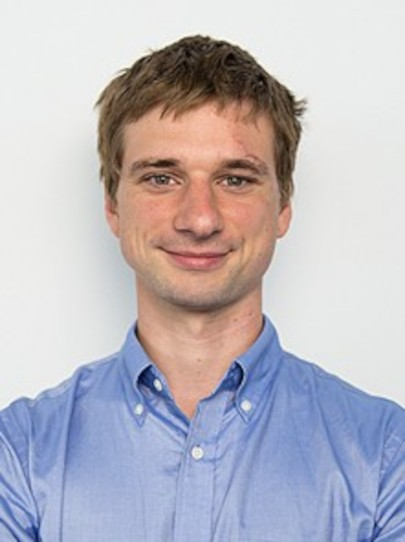
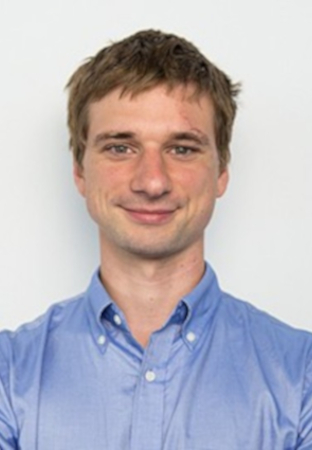
Create flipping coin
* Rework Flipping me to be better reusable
* Resize images
* Remove personal texts
* Delete normalize for better approach with tailwind

diff --git a/pages/index.tsx b/pages/index.tsx
@@ -1,7 +1,7 @@
 import * as React from "react";
 import { NextPage } from "next";
 import Layout from "../components/Layout";
-import FlippingMe from "../components/FlippingMe";
+import FlippingCoin, { Side } from "../components/FlippingCoin/FlippingCoin";
 
 const Home: NextPage = () => (
   <Layout>
@@ -13,8 +13,7 @@ const Home: NextPage = () => (
           className="w-full lg:w-3/5 rounded-lg lg:rounded-l-lg lg:rounded-r-none shadow-2xl bg-white opacity-75 mx-6 lg:mx-0"
         >
           <div className="p-4 md:p-12 text-center lg:text-left">
-            {/* Image for mobile view */}
-            <FlippingMe />
+            <MobileImage />
 
             <h1 className="text-3xl font-bold pt-8 lg:pt-0">Thomas Eberl</h1>
             <div className="mx-auto lg:mx-0 w-4/5 pt-3 border-b-2 border-blue-500 opacity-25"></div>
@@ -39,16 +38,23 @@ const Home: NextPage = () => (
               Munich - Germany
             </p>
             <p className="pt-8 text-sm">
-              Hobby rock climber and big bike supporter,
-              <br />
-              who loves travelling, cooking and eating.
+              <h6 className="pb-2">I'm professional about building things</h6>
+              <p>
+                <b>with</b> .NET, Node.js, React, Next.js
+              </p>
+              <p>
+                <b>in</b> C#, TypeScript/JS, Elixir
+              </p>
+              <p>
+                <b>for</b> (mainly) the web
+              </p>
             </p>
 
-            <div className="mt-6 w-4/5 lg:w-full mx-auto flex flex-wrap items-center justify-between">
+            <div className="pt-8 w-4/5 lg:w-full mx-auto flex flex-wrap items-center justify-between">
               {/* Use https://simpleicons.org/ to find the svg for your preferred product */}
               <a className="link" href="https://twitter.com/_teberl">
                 <svg
-                  className="h-6 fill-current text-gray-600 hover:text-blue-700"
+                  className="h-6 fill-current text-gray-600 hover:text-blue-400"
                   viewBox="0 0 24 24"
                   xmlns="http://www.w3.org/2000/svg"
                 >
@@ -83,7 +89,7 @@ const Home: NextPage = () => (
                 href="https://stackoverflow.com/users/6817880/teberl"
               >
                 <svg
-                  className="h-6 fill-current text-gray-600 hover:text-orange-700"
+                  className="h-6 fill-current text-gray-600 hover:text-yellow-600"
                   role="img"
                   viewBox="0 0 24 24"
                   xmlns="http://www.w3.org/2000/svg"
@@ -96,22 +102,68 @@ const Home: NextPage = () => (
           </div>
         </div>
 
-        {/* Img Col */}
-        <div className="w-full lg:w-2/5">
-          {/* Big profile image for side bar (desktop */}
-          <picture className="rounded-none lg:rounded-lg shadow-2xl hidden lg:block">
-            <source type="image/webp" srcSet="/horse.webp" />
-            <source type="image/jpeg" srcSet="/horse.jpg" />
-            <img
-              className="rounded-none lg:rounded-lg shadow-2xl hidden lg:block"
-              src="/horse.jpg"
-              alt="mobile profile"
-            />
-          </picture>
-        </div>
+        <DesktopImage />
       </div>
     </div>
   </Layout>
+);
+
+const DesktopImage = () => (
+  <div className="w-full lg:w-2/6">
+    <FlippingCoin height={425}>
+      <Side type="front">
+        <picture className="rounded-none lg:rounded-lg shadow-2xl hidden lg:block">
+          <source type="image/webp" srcSet="/horse.webp" />
+          <source type="image/jpeg" srcSet="/horse.jpg" />
+          <img
+            className="rounded-none lg:rounded-lg shadow-2xl hidden lg:block"
+            src="/horse.jpg"
+            alt="horse"
+          />
+        </picture>
+      </Side>
+      <Side type="back">
+        <picture className="rounded-none lg:rounded-lg shadow-2xl hidden lg:block">
+          <source type="image/webp" srcSet="/me.webp" />
+          <source type="image/jpeg" srcSet="/me.jpg" />
+          <img
+            className="rounded-none lg:rounded-lg shadow-2xl hidden lg:block"
+            src="/me.jpg"
+            alt="me"
+          />
+        </picture>
+      </Side>
+    </FlippingCoin>
+  </div>
+);
+
+const MobileImage = () => (
+  <div className="lg:hidden">
+    <FlippingCoin height={125}>
+      <Side type="front">
+        <picture className="block rounded-full shadow-xl mx-auto -mt-16 h-48 w-36 bg-cover bg-center">
+          <source type="image/webp" srcSet="/horse.webp" />
+          <source type="image/jpeg" srcSet="/horse.jpg" />
+          <img
+            className="block rounded-full shadow-xl mx-auto -mt-16 h-48 w-36 bg-cover bg-center"
+            src="/horse.jpg"
+            alt="horse"
+          />
+        </picture>
+      </Side>
+      <Side type="back">
+        <picture className="block lg:hidden rounded-full shadow-xl mx-auto -mt-16 h-48 w-32 bg-cover bg-center">
+          <source type="image/webp" srcSet="/me.webp" />
+          <source type="image/jpeg" srcSet="/me.jpg" />
+          <img
+            className="block lg:hidden rounded-full shadow-xl mx-auto -mt-16 h-48 w-32 bg-cover bg-center"
+            src="/me.jpg"
+            alt="me"
+          />
+        </picture>
+      </Side>
+    </FlippingCoin>
+  </div>
 );
 
 export default Home;

diff --git a/components/FlippingCoin/FlippingCoin.tsx b/components/FlippingCoin/FlippingCoin.tsx
@@ -1,0 +1,58 @@
+import React, { PropsWithChildren, ReactNode, useState } from "react";
+import classnames from "classnames";
+import styles from "./FlippingCoin.module.css";
+
+export type Type = "front" | "back";
+
+interface SideProps {
+  type: Type;
+}
+
+const renderSideElement = (child: ReactNode, height?: number) => {
+  if (React.isValidElement(child) && child.type === Side) {
+    return React.cloneElement(child, {
+      style: { height },
+    });
+  }
+};
+
+export const Side: React.FC<PropsWithChildren<SideProps>> = (
+  props: PropsWithChildren<SideProps>
+) => (
+  <div
+    className={classnames({
+      [styles.front]: props.type === "front",
+      [styles.back]: props.type === "back",
+    })}
+  >
+    {props.children}
+  </div>
+);
+
+interface Props {
+  height?: number;
+}
+
+const Flipper: React.FC<PropsWithChildren<Props>> = (
+  props: PropsWithChildren<Props>
+) => {
+  const [isHovered, setHovered] = useState(false);
+
+  return (
+    <div
+      style={{ height: props.height }}
+      className={classnames(styles.container, {
+        hover: isHovered,
+      })}
+      onTouchStart={() => setHovered(!isHovered)}
+    >
+      <div className={styles.flipper}>
+        {React.Children.map(props.children, (child) =>
+          renderSideElement(child, props.height)
+        )}
+      </div>
+    </div>
+  );
+};
+
+export default React.memo(Flipper);

diff --git a/components/Nav.tsx b/components/Nav.tsx
@@ -5,11 +5,7 @@ import Link from "next/link";
 const Nav: React.FunctionComponent = () => {
   const [isHidden, setIsHidden] = useState(true);
 
-  const links = [
-    { href: "/", label: "Home" },
-    { href: "todos", label: "Todo • MVC" },
-    { href: "about", label: "About" },
-  ];
+  const links = [{ href: "todos", label: "Todo • MVC" }];
 
   return (
     <nav className="flex items-center justify-between flex-wrap border-solid border-b border-gray-600 lg:mx-16 p-6">

diff --git a/components/FlippingCoin/FlippingCoin.module.css b/components/FlippingCoin/FlippingCoin.module.css
@@ -1,3 +1,9 @@
+/* 
+Credits for the flipping coin animation go to @DavidWalsh
+https://davidwalsh.name/css-flip
+Thx for that 🙏
+*/
+
 /* entire container, keeps perspective */
 .container {
   perspective: 1000px;
@@ -13,7 +19,7 @@
 .front,
 .back {
   width: 100%;
-  height: 125px;
+  /* height: 125px; */
 }
 
 /* flip speed goes here */

diff --git a/pages/_app.tsx b/pages/_app.tsx
@@ -1,7 +1,6 @@
 import * as React from "react";
 import { AppProps } from "next/app";
 import "../css/main.css";
-import "../css/normalize.css";
 
 // This default export is required in a new `pages/_app.js` file.
 const MyApp = ({ Component, pageProps }: AppProps) => {

diff --git a/css/main.css b/css/main.css
@@ -1,6 +1,12 @@
-@tailwind base;
-@tailwind components;
-@tailwind utilities;
-
 /* purgecss start ignore */
+@tailwind base;
+@layer base {
+  body {
+    @apply m-0;
+  }
+}
 /* purgecss end ignore */
+
+@tailwind components;
+
+@tailwind utilities;
